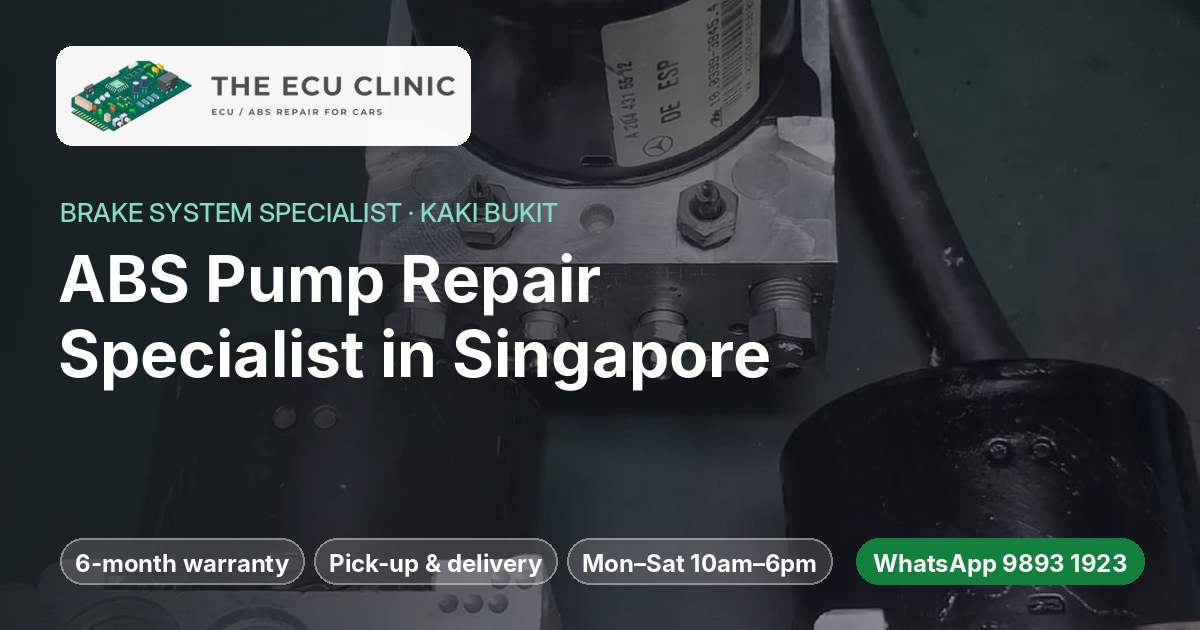
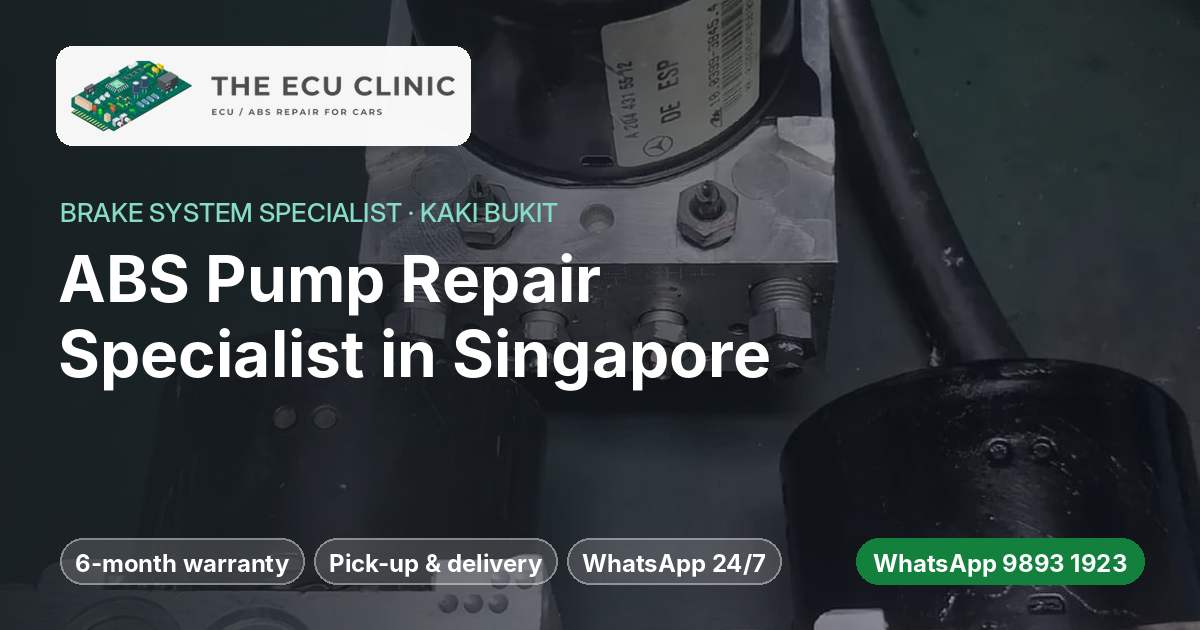
ECU Clinic: new opening hours, 24/7 WhatsApp, hybrid battery warranty
Claude-Session: https://claude.ai/code/session_01JL1gboM7tj1dXcdt9sxg5s

Changed region(s): [[0.4625, 0.8444, 0.7092, 0.9349]]

diff --git a/pageone-site/clients/ecu-clinic/site/index.html b/pageone-site/clients/ecu-clinic/site/index.html
@@ -34,14 +34,14 @@
 <link rel="preload" as="image" href="https://cdn.jsdelivr.net/gh/drdigital641/edwin-ai-monitor-android@55ce4a05db3fe9c131bf8425bc9e925459fcbf35/pageone-site/clients/ecu-clinic/site/img/mercedes-esp-pumps.webp" media="(max-width:899px)">
 <link rel="preload" as="image" href="https://cdn.jsdelivr.net/gh/drdigital641/edwin-ai-monitor-android@55ce4a05db3fe9c131bf8425bc9e925459fcbf35/pageone-site/clients/ecu-clinic/site/img/mercedes-esp-pumps-lg.webp" media="(min-width:900px)">
 <link rel="stylesheet" href="./ecu.css?v=2">
-<script type="application/ld+json">{"@context": "https://schema.org", "@graph": [{"@type": "AutoRepair", "@id": "https://pageonesingapore.com/preview/ecu-clinic/#business", "name": "The ECU Clinic", "description": "ABS pump and module repair, brake system fault diagnosis, Mercedes 7-speed and 9-speed TCU repair, Mercedes steering lock repair and hybrid battery replacement in Kaki Bukit, Singapore.", "url": "https://pageonesingapore.com/preview/ecu-clinic/", "telephone": "+6598931923", "logo": "https://cdn.jsdelivr.net/gh/drdigital641/edwin-ai-monitor-android@55ce4a05db3fe9c131bf8425bc9e925459fcbf35/pageone-site/clients/ecu-clinic/site/icon-512.png", "image": "https://cdn.jsdelivr.net/gh/drdigital641/edwin-ai-monitor-android@55ce4a05db3fe9c131bf8425bc9e925459fcbf35/pageone-site/clients/ecu-clinic/site/img/share/home.jpg", "sameAs": ["https://www.facebook.com/TheECUclinicSG"], "address": {"@type": "PostalAddress", "streetAddress": "8 Kaki Bukit Avenue 4, #06-43, Premier @ Kaki Bukit", "addressLocality": "Singapore", "postalCode": "415875", "addressCountry": "SG"}, "openingHoursSpecification": [{"@type": "OpeningHoursSpecification", "dayOfWeek": ["Monday", "Tuesday", "Wednesday", "Thursday", "Friday", "Saturday"], "opens": "10:00", "closes": "18:00"}], "areaServed": "Singapore", "hasOfferCatalog": {"@type": "OfferCatalog", "name": "Services", "itemListElement": [{"@type": "Offer", "itemOffered": {"@type": "Service", "name": "ABS Pump & Module Repair"}}, {"@type": "Offer", "itemOffered": {"@type": "Service", "name": "Mercedes 7-Speed & 9-Speed TCU Repair"}}, {"@type": "Offer", "itemOffered": {"@type": "Service", "name": "Mercedes Steering Lock (ELV) Repair"}}, {"@type": "Offer", "itemOffered": {"@type": "Service", "name": "Hybrid Battery Replacement"}}, {"@type": "Offer", "itemOffered": {"@type": "Service", "name": "BMW temperature programming"}}]}}]}</script><script type="application/ld+json">{"@context": "https://schema.org", "@type": "FAQPage", "mainEntity": [{"@type": "Question", "name": "What should I send when I WhatsApp you?", "acceptedAnswer": {"@type": "Answer", "text": "Your car model, chassis number and the fault code. A photo of the scan tool screen or the warning light on the dashboard also helps. WhatsApp 9893 1923."}}, {"@type": "Question", "name": "Can you repair my ABS pump or module?", "acceptedAnswer": {"@type": "Answer", "text": "Yes. We repair ABS, ESP and ESC modules and supply used and reconditioned ABS pumps for makes such as Toyota, Honda, Mercedes-Benz, Hyundai, Kia, Volkswagen, Audi, Nissan, Volvo and Chevrolet. For Toyota Voxy, Noah and Sienta we repair, replace or supply used and recon ABS pumps and modules, with plug and play available."}}, {"@type": "Question", "name": "My Mercedes says “Active Brake Assist functions limited”. Can you help?", "acceptedAnswer": {"@type": "Answer", "text": "Yes. WhatsApp us a photo of the dashboard and the fault code. We diagnose brake system warnings like this one and tell you what is causing it before any part is changed."}}, {"@type": "Question", "name": "Do you repair Mercedes 7-speed and 9-speed gearboxes?", "acceptedAnswer": {"@type": "Answer", "text": "We repair the transmission control unit (TCU) on Mercedes 7G-Tronic (722.9) and 9G-Tronic automatic gearboxes. Send us the car model, chassis number and fault code."}}, {"@type": "Question", "name": "Do you repair Mercedes steering locks?", "acceptedAnswer": {"@type": "Answer", "text": "Yes. We repair the electronic steering lock (ELV) on Mercedes-Benz cars. WhatsApp us your model and what the car is doing."}}, {"@type": "Question", "name": "What hybrid batteries do you fit?", "acceptedAnswer": {"@type": "Answer", "text": "Brand-new OEM hybrid batteries. WhatsApp us your car model and year and we will check availability and price."}}, {"@type": "Question", "name": "Which car brands do you work on?", "acceptedAnswer": {"@type": "Answer", "text": "Continental and Asian cars, including Audi, BMW, Chevrolet, Honda, Hyundai, Kia, Mercedes-Benz, Mini, Nissan, Skoda, Toyota, Volkswagen and Volvo. If your car isn’t listed, WhatsApp us the model and we will tell you."}}, {"@type": "Question", "name": "Is there a warranty?", "acceptedAnswer": {"@type": "Answer", "text": "Yes. Our repairs come with a 6-month warranty."}}, {"@type": "Question", "name": "Can you collect my car or part?", "acceptedAnswer": {"@type": "Answer", "text": "Yes. Pick-up and delivery service is available. WhatsApp us your location and what needs to be collected."}}, {"@type": "Question", "name": "Which BMWs can have temperature programming?", "acceptedAnswer": {"@type": "Answer", "text": "Most BMW models from 2010 to 2018, including the 1 to 8 Series, X1 to X6, M2 and Z4. See the full list on this page, or WhatsApp us your model to check."}}, {"@type": "Question", "name": "Where are you and when are you open?", "acceptedAnswer": {"@type": "Answer", "text": "We are at Premier @ Kaki Bukit, 8 Kaki Bukit Avenue 4, #06-43, Singapore 415875. Monday to Saturday, 10am to 6pm. Closed on Sundays and public holidays. After-hours appointments can be arranged."}}]}</script><script type="application/ld+json">{"@context": "https://schema.org", "@type": "WebPage", "@id": "https://pageonesingapore.com/preview/ecu-clinic/", "url": "https://pageonesingapore.com/preview/ecu-clinic/", "name": "ABS Pump Repair Singapore | The ECU Clinic, Kaki Bukit", "description": "ABS pump and module repair, brake fault diagnosis, Mercedes 7G/9G TCU and steering lock repair, new OEM hybrid batteries. Kaki Bukit. WhatsApp 9893 1923.", "about": {"@id": "https://pageonesingapore.com/preview/ecu-clinic/#business"}, "primaryImageOfPage": {"@type": "ImageObject", "url": "https://cdn.jsdelivr.net/gh/drdigital641/edwin-ai-monitor-android@55ce4a05db3fe9c131bf8425bc9e925459fcbf35/pageone-site/clients/ecu-clinic/site/img/share/home.jpg", "width": 1200, "height": 630}}</script>
+<script type="application/ld+json">{"@context": "https://schema.org", "@graph": [{"@type": "AutoRepair", "@id": "https://pageonesingapore.com/preview/ecu-clinic/#business", "name": "The ECU Clinic", "description": "ABS pump and module repair, brake system fault diagnosis, Mercedes 7-speed and 9-speed TCU repair, Mercedes steering lock repair and hybrid battery replacement in Kaki Bukit, Singapore.", "url": "https://pageonesingapore.com/preview/ecu-clinic/", "telephone": "+6598931923", "logo": "https://cdn.jsdelivr.net/gh/drdigital641/edwin-ai-monitor-android@55ce4a05db3fe9c131bf8425bc9e925459fcbf35/pageone-site/clients/ecu-clinic/site/icon-512.png", "image": "https://cdn.jsdelivr.net/gh/drdigital641/edwin-ai-monitor-android@55ce4a05db3fe9c131bf8425bc9e925459fcbf35/pageone-site/clients/ecu-clinic/site/img/share/home.jpg", "sameAs": ["https://www.facebook.com/TheECUclinicSG"], "address": {"@type": "PostalAddress", "streetAddress": "8 Kaki Bukit Avenue 4, #06-43, Premier @ Kaki Bukit", "addressLocality": "Singapore", "postalCode": "415875", "addressCountry": "SG"}, "openingHoursSpecification": [{"@type": "OpeningHoursSpecification", "dayOfWeek": ["Monday", "Tuesday", "Wednesday", "Thursday", "Friday"], "opens": "09:00", "closes": "19:00"}, {"@type": "OpeningHoursSpecification", "dayOfWeek": ["Saturday"], "opens": "09:00", "closes": "15:00"}], "areaServed": "Singapore", "hasOfferCatalog": {"@type": "OfferCatalog", "name": "Services", "itemListElement": [{"@type": "Offer", "itemOffered": {"@type": "Service", "name": "ABS Pump & Module Repair"}}, {"@type": "Offer", "itemOffered": {"@type": "Service", "name": "Mercedes 7-Speed & 9-Speed TCU Repair"}}, {"@type": "Offer", "itemOffered": {"@type": "Service", "name": "Mercedes Steering Lock (ELV) Repair"}}, {"@type": "Offer", "itemOffered": {"@type": "Service", "name": "Hybrid Battery Replacement"}}, {"@type": "Offer", "itemOffered": {"@type": "Service", "name": "BMW temperature programming"}}]}}]}</script><script type="application/ld+json">{"@context": "https://schema.org", "@type": "FAQPage", "mainEntity": [{"@type": "Question", "name": "What should I send when I WhatsApp you?", "acceptedAnswer": {"@type": "Answer", "text": "Your car model, chassis number and the fault code. A photo of the scan tool screen or the warning light on the dashboard also helps. WhatsApp 9893 1923."}}, {"@type": "Question", "name": "Can you repair my ABS pump or module?", "acceptedAnswer": {"@type": "Answer", "text": "Yes. We repair ABS, ESP and ESC modules and supply used and reconditioned ABS pumps for makes such as Toyota, Honda, Mercedes-Benz, Hyundai, Kia, Volkswagen, Audi, Nissan, Volvo and Chevrolet. For Toyota Voxy, Noah and Sienta we repair, replace or supply used and recon ABS pumps and modules, with plug and play available."}}, {"@type": "Question", "name": "My Mercedes says “Active Brake Assist functions limited”. Can you help?", "acceptedAnswer": {"@type": "Answer", "text": "Yes. WhatsApp us a photo of the dashboard and the fault code. We diagnose brake system warnings like this one and tell you what is causing it before any part is changed."}}, {"@type": "Question", "name": "Do you repair Mercedes 7-speed and 9-speed gearboxes?", "acceptedAnswer": {"@type": "Answer", "text": "We repair the transmission control unit (TCU) on Mercedes 7G-Tronic (722.9) and 9G-Tronic automatic gearboxes. Send us the car model, chassis number and fault code."}}, {"@type": "Question", "name": "Do you repair Mercedes steering locks?", "acceptedAnswer": {"@type": "Answer", "text": "Yes. We repair the electronic steering lock (ELV) on Mercedes-Benz cars. WhatsApp us your model and what the car is doing."}}, {"@type": "Question", "name": "What hybrid batteries do you fit?", "acceptedAnswer": {"@type": "Answer", "text": "Brand-new OEM hybrid batteries, with a warranty of 1 year or 100,000 km. WhatsApp us your car model and year and we will check availability and price."}}, {"@type": "Question", "name": "Which car brands do you work on?", "acceptedAnswer": {"@type": "Answer", "text": "Continental and Asian cars, including Audi, BMW, Chevrolet, Honda, Hyundai, Kia, Mercedes-Benz, Mini, Nissan, Skoda, Toyota, Volkswagen and Volvo. If your car isn’t listed, WhatsApp us the model and we will tell you."}}, {"@type": "Question", "name": "Is there a warranty?", "acceptedAnswer": {"@type": "Answer", "text": "Yes. Our repairs come with a 6-month warranty. Brand-new hybrid batteries come with a warranty of 1 year or 100,000 km."}}, {"@type": "Question", "name": "Can you collect my car or part?", "acceptedAnswer": {"@type": "Answer", "text": "Yes. Pick-up and delivery service is available. WhatsApp us your location and what needs to be collected."}}, {"@type": "Question", "name": "Which BMWs can have temperature programming?", "acceptedAnswer": {"@type": "Answer", "text": "Most BMW models from 2010 to 2018, including the 1 to 8 Series, X1 to X6, M2 and Z4. See the full list on this page, or WhatsApp us your model to check."}}, {"@type": "Question", "name": "Where are you and when are you open?", "acceptedAnswer": {"@type": "Answer", "text": "We are at Premier @ Kaki Bukit, 8 Kaki Bukit Avenue 4, #06-43, Singapore 415875. Monday to Friday, 9am to 7pm. Saturday, 9am to 3pm. Closed on Sundays and public holidays. WhatsApp enquiries are welcome 24/7, and after-hours appointments can be arranged."}}]}</script><script type="application/ld+json">{"@context": "https://schema.org", "@type": "WebPage", "@id": "https://pageonesingapore.com/preview/ecu-clinic/", "url": "https://pageonesingapore.com/preview/ecu-clinic/", "name": "ABS Pump Repair Singapore | The ECU Clinic, Kaki Bukit", "description": "ABS pump and module repair, brake fault diagnosis, Mercedes 7G/9G TCU and steering lock repair, new OEM hybrid batteries. Kaki Bukit. WhatsApp 9893 1923.", "about": {"@id": "https://pageonesingapore.com/preview/ecu-clinic/#business"}, "primaryImageOfPage": {"@type": "ImageObject", "url": "https://cdn.jsdelivr.net/gh/drdigital641/edwin-ai-monitor-android@55ce4a05db3fe9c131bf8425bc9e925459fcbf35/pageone-site/clients/ecu-clinic/site/img/share/home.jpg", "width": 1200, "height": 630}}</script>
 </head>
 <body>
 <a class="skip" href="#main">Skip to content</a>
 <svg width="0" height="0" style="position:absolute" aria-hidden="true"><symbol id="i-wa" viewBox="0 0 24 24"><path d="M17.5 14.4c-.3-.1-1.8-.9-2-1s-.5-.1-.7.1-.8 1-1 1.2-.4.2-.7.1a8.2 8.2 0 0 1-4-3.5c-.3-.5.3-.5.9-1.6.1-.2 0-.4 0-.5l-.9-2.2c-.2-.6-.5-.5-.7-.5h-.6a1.1 1.1 0 0 0-.8.4 3.4 3.4 0 0 0-1 2.5 5.9 5.9 0 0 0 1.2 3.1 13.5 13.5 0 0 0 5.2 4.6c1.9.8 2.7.9 3.6.7a3.1 3.1 0 0 0 2-1.4 2.5 2.5 0 0 0 .2-1.4c-.1-.2-.3-.3-.6-.4zM12 21.8a9.8 9.8 0 0 1-5-1.4l-.4-.2-3.7 1 1-3.6-.2-.4A9.8 9.8 0 1 1 12 21.8zm8.4-18.2A11.8 11.8 0 0 0 1.8 17.8L.1 24l6.3-1.7a11.8 11.8 0 0 0 5.6 1.4A11.8 11.8 0 0 0 20.4 3.6z"/></symbol><symbol id="i-phone" viewBox="0 0 24 24" fill="none" stroke="currentColor" stroke-width="2" stroke-linecap="round" stroke-linejoin="round"><path d="M22 16.9v3a2 2 0 0 1-2.2 2 19.8 19.8 0 0 1-8.6-3.1 19.5 19.5 0 0 1-6-6A19.8 19.8 0 0 1 2.1 4.2 2 2 0 0 1 4.1 2h3a2 2 0 0 1 2 1.7c.1 1 .4 1.9.7 2.8a2 2 0 0 1-.5 2.1L8 9.9a16 16 0 0 0 6 6l1.3-1.3a2 2 0 0 1 2.1-.4c.9.3 1.8.6 2.8.7a2 2 0 0 1 1.7 2z"/></symbol></svg>
 <div class="preview-strip">Preview by Page One Singapore. This is a draft of your new website.</div>
 <div class="topbar"><div class="wrap">
-<span>ABS &amp; brake system repair <span class="hide-sm">· Mon–Sat 10am–6pm · Sun &amp; PH closed</span></span>
+<span>ABS &amp; brake system repair <span class="hide-sm">· Mon–Fri 9am–7pm · Sat 9am–3pm · WhatsApp 24/7</span></span>
 <span><a href="https://wa.me/6598931923?text=Hi%20The%20ECU%20Clinic%2C%20I%20need%20help%20with%20my%20car.%20Car%20model%3A%20%0AChassis%20no.%3A%20%0AFault%20code%3A%20" target="_blank" rel="noopener">WhatsApp 9893 1923</a> <span class="hide-sm">· Premier @ Kaki Bukit</span></span>
 </div></div>
 <header class="site"><div class="wrap">
@@ -60,7 +60,7 @@
 <span class="eyebrow">Brake system specialist · Kaki Bukit, Singapore</span>
 <h1>ABS Pump Repair &amp; Brake Fault Diagnosis in Singapore</h1>
 <p class="lead">ABS or ESP light on? We find the fault and repair the pump or module. We also repair Mercedes 7-speed and 9-speed gearbox control units and steering locks, and fit brand-new OEM hybrid batteries.</p>
-<ul class="chips"><li>6-month warranty</li><li>Pick-up &amp; delivery</li><li>10+ years’ experience</li><li>Mon–Sat 10am–6pm</li></ul>
+<ul class="chips"><li>6-month warranty</li><li>Pick-up &amp; delivery</li><li>10+ years’ experience</li><li>WhatsApp enquiries 24/7</li></ul>
 <div class="btns"><a class="btn btn-wa" href="https://wa.me/6598931923?text=Hi%20The%20ECU%20Clinic%2C%20I%20need%20help%20with%20my%20car.%20Car%20model%3A%20%0AChassis%20no.%3A%20%0AFault%20code%3A%20" target="_blank" rel="noopener"><svg viewBox="0 0 24 24" fill="currentColor" aria-hidden="true"><use href="#i-wa"/></svg><span class="lg">WhatsApp 9893 1923</span><span class="sm">WhatsApp us</span></a><a class="btn btn-ghost" href="tel:+6598931923"><svg viewBox="0 0 24 24" aria-hidden="true"><use href="#i-phone"/></svg>Call Ching</a></div>
 </div>
 </section>
@@ -72,7 +72,7 @@
 
 <section class="alt" id="services"><div class="wrap">
 <div class="sec-head"><h2>Our services</h2><p>ABS and brake system repair, plus Mercedes gearbox and steering lock repair and hybrid batteries.</p></div>
-<div class="grid g2 svc"><div class="card img" id="abs"><img src="https://cdn.jsdelivr.net/gh/drdigital641/edwin-ai-monitor-android@55ce4a05db3fe9c131bf8425bc9e925459fcbf35/pageone-site/clients/ecu-clinic/site/img/abs-esc-units-bench.webp" width="640" height="480" alt="ABS and ESC units on the repair bench" loading="lazy" decoding="async"><div class="body"><h3>ABS Pump &amp; Module Repair</h3><p class="muted">ABS, ESP or ESC warning light? We repair the pump and module, or supply a used or reconditioned unit.</p><ul class="ticks"><li>ABS, ESP and ESC module repair</li><li>Used and recon ABS pumps</li><li>Mercedes-Benz ESP units</li><li>Hyundai and Kia ESC units</li><li>Toyota Voxy, Noah and Sienta: repair, replace, used or recon</li><li>Plug and play available</li></ul></div></div><div class="card img" id="tcu"><img src="https://cdn.jsdelivr.net/gh/drdigital641/edwin-ai-monitor-android@55ce4a05db3fe9c131bf8425bc9e925459fcbf35/pageone-site/clients/ecu-clinic/site/img/mercedes-7g-conductor-plate.webp" width="640" height="480" alt="Mercedes 7-speed gearbox conductor plate with new filter, gasket and gearbox oil" loading="lazy" decoding="async"><div class="body"><h3>Mercedes 7-Speed &amp; 9-Speed TCU Repair</h3><p class="muted">Gearbox warning, harsh shifts or stuck in one gear? We diagnose and repair the transmission control unit (TCU) on Mercedes 7-speed and 9-speed automatics.</p><ul class="ticks"><li>7G-Tronic (722.9) TCU and conductor plate</li><li>9G-Tronic TCU</li><li>Fault code reading and diagnosis</li><li>New filter, pan gasket and gearbox oil fitted on the same job</li></ul></div></div><div class="card img" id="elv"><img src="https://cdn.jsdelivr.net/gh/drdigital641/edwin-ai-monitor-android@55ce4a05db3fe9c131bf8425bc9e925459fcbf35/pageone-site/clients/ecu-clinic/site/img/mercedes-elv.webp" width="640" height="480" alt="Mercedes-Benz electronic steering lock on the bench" loading="lazy" decoding="async"><div class="body"><h3>Mercedes Steering Lock (ELV) Repair</h3><p class="muted">Key won’t turn, or the car won’t start because of the steering lock? We repair the electronic steering lock (ELV) on Mercedes-Benz.</p><ul class="ticks"><li>Mercedes-Benz ELV diagnosis</li><li>Steering lock repair</li><li>WhatsApp us your model and the symptoms</li></ul></div></div><div class="card img" id="hybrid"><img src="https://cdn.jsdelivr.net/gh/drdigital641/edwin-ai-monitor-android@55ce4a05db3fe9c131bf8425bc9e925459fcbf35/pageone-site/clients/ecu-clinic/site/img/hybrid-battery-pack.webp" width="640" height="480" alt="Brand-new hybrid battery pack ready to fit" loading="lazy" decoding="async"><div class="body"><h3>Hybrid Battery Replacement</h3><p class="muted">Hybrid battery warning or a weak battery? We replace it with a brand-new OEM hybrid battery.</p><ul class="ticks"><li>Brand-new OEM hybrid batteries</li><li>Removal and fitting</li><li>WhatsApp us your car model and year to check availability</li></ul></div></div></div>
+<div class="grid g2 svc"><div class="card img" id="abs"><img src="https://cdn.jsdelivr.net/gh/drdigital641/edwin-ai-monitor-android@55ce4a05db3fe9c131bf8425bc9e925459fcbf35/pageone-site/clients/ecu-clinic/site/img/abs-esc-units-bench.webp" width="640" height="480" alt="ABS and ESC units on the repair bench" loading="lazy" decoding="async"><div class="body"><h3>ABS Pump &amp; Module Repair</h3><p class="muted">ABS, ESP or ESC warning light? We repair the pump and module, or supply a used or reconditioned unit.</p><ul class="ticks"><li>ABS, ESP and ESC module repair</li><li>Used and recon ABS pumps</li><li>Mercedes-Benz ESP units</li><li>Hyundai and Kia ESC units</li><li>Toyota Voxy, Noah and Sienta: repair, replace, used or recon</li><li>Plug and play available</li></ul></div></div><div class="card img" id="tcu"><img src="https://cdn.jsdelivr.net/gh/drdigital641/edwin-ai-monitor-android@55ce4a05db3fe9c131bf8425bc9e925459fcbf35/pageone-site/clients/ecu-clinic/site/img/mercedes-7g-conductor-plate.webp" width="640" height="480" alt="Mercedes 7-speed gearbox conductor plate with new filter, gasket and gearbox oil" loading="lazy" decoding="async"><div class="body"><h3>Mercedes 7-Speed &amp; 9-Speed TCU Repair</h3><p class="muted">Gearbox warning, harsh shifts or stuck in one gear? We diagnose and repair the transmission control unit (TCU) on Mercedes 7-speed and 9-speed automatics.</p><ul class="ticks"><li>7G-Tronic (722.9) TCU and conductor plate</li><li>9G-Tronic TCU</li><li>Fault code reading and diagnosis</li><li>New filter, pan gasket and gearbox oil fitted on the same job</li></ul></div></div><div class="card img" id="elv"><img src="https://cdn.jsdelivr.net/gh/drdigital641/edwin-ai-monitor-android@55ce4a05db3fe9c131bf8425bc9e925459fcbf35/pageone-site/clients/ecu-clinic/site/img/mercedes-elv.webp" width="640" height="480" alt="Mercedes-Benz electronic steering lock on the bench" loading="lazy" decoding="async"><div class="body"><h3>Mercedes Steering Lock (ELV) Repair</h3><p class="muted">Key won’t turn, or the car won’t start because of the steering lock? We repair the electronic steering lock (ELV) on Mercedes-Benz.</p><ul class="ticks"><li>Mercedes-Benz ELV diagnosis</li><li>Steering lock repair</li><li>WhatsApp us your model and the symptoms</li></ul></div></div><div class="card img" id="hybrid"><img src="https://cdn.jsdelivr.net/gh/drdigital641/edwin-ai-monitor-android@55ce4a05db3fe9c131bf8425bc9e925459fcbf35/pageone-site/clients/ecu-clinic/site/img/hybrid-battery-pack.webp" width="640" height="480" alt="Brand-new hybrid battery pack ready to fit" loading="lazy" decoding="async"><div class="body"><h3>Hybrid Battery Replacement</h3><p class="muted">Hybrid battery warning or a weak battery? We replace it with a brand-new OEM hybrid battery.</p><ul class="ticks"><li>Brand-new OEM hybrid batteries</li><li>Warranty: 1 year or 100,000 km</li><li>Removal and fitting</li><li>WhatsApp us your car model and year to check availability</li></ul></div></div></div>
 <p style="margin-top:22px"><a class="btn btn-wa" href="https://wa.me/6598931923?text=Hi%20The%20ECU%20Clinic%2C%20I%20need%20help%20with%20my%20car.%20Car%20model%3A%20%0AChassis%20no.%3A%20%0AFault%20code%3A%20" target="_blank" rel="noopener"><svg viewBox="0 0 24 24" fill="currentColor" aria-hidden="true"><use href="#i-wa"/></svg>WhatsApp us your fault code</a></p>
 </div></section>
 
@@ -125,14 +125,14 @@
 <p>8 Kaki Bukit Avenue 4, #06-43<br>Singapore 415875</p>
 <div class="btns"><a class="btn btn-wa" href="https://wa.me/6598931923?text=Hi%20The%20ECU%20Clinic%2C%20I%20need%20help%20with%20my%20car.%20Car%20model%3A%20%0AChassis%20no.%3A%20%0AFault%20code%3A%20" target="_blank" rel="noopener"><svg viewBox="0 0 24 24" fill="currentColor" aria-hidden="true"><use href="#i-wa"/></svg>WhatsApp 9893 1923</a>
 <a class="btn btn-line" href="https://www.google.com/maps/search/?api=1&amp;query=Premier%20%40%20Kaki%20Bukit%2C%208%20Kaki%20Bukit%20Avenue%204%2C%20Singapore%20415875" target="_blank" rel="noopener">Directions</a></div></div>
-<div class="card"><h3>Opening hours</h3><dl class="hours"><dt>Mon – Sat</dt><dd>10:00am – 6:00pm</dd><dt>Sun &amp; PH</dt><dd>Closed</dd></dl>
-<p class="muted" style="margin-top:10px">After-hours appointments can be arranged. Pick-up and delivery available.</p></div>
+<div class="card"><h3>Opening hours</h3><dl class="hours"><dt>Mon – Fri</dt><dd>9:00am – 7:00pm</dd><dt>Sat</dt><dd>9:00am – 3:00pm</dd><dt>Sun &amp; PH</dt><dd>Closed</dd></dl>
+<p class="muted" style="margin-top:10px">WhatsApp enquiries are welcome 24/7. After-hours appointments can be arranged. Pick-up and delivery available.</p></div>
 </div>
 </div></section>
 
 <section id="faq"><div class="wrap" style="max-width:860px">
 <div class="sec-head"><h2>ABS &amp; brake repair FAQ</h2></div>
-<details><summary>What should I send when I WhatsApp you?</summary><div class="a">Your car model, chassis number and the fault code. A photo of the scan tool screen or the warning light on the dashboard also helps. WhatsApp <a href="https://wa.me/6598931923?text=Hi%20The%20ECU%20Clinic%2C%20I%20need%20help%20with%20my%20car.%20Car%20model%3A%20%0AChassis%20no.%3A%20%0AFault%20code%3A%20" target="_blank" rel="noopener">9893 1923</a>.</div></details><details><summary>Can you repair my ABS pump or module?</summary><div class="a">Yes. We repair ABS, ESP and ESC modules and supply used and reconditioned ABS pumps for makes such as Toyota, Honda, Mercedes-Benz, Hyundai, Kia, Volkswagen, Audi, Nissan, Volvo and Chevrolet. For Toyota Voxy, Noah and Sienta we repair, replace or supply used and recon ABS pumps and modules, with plug and play available.</div></details><details><summary>My Mercedes says “Active Brake Assist functions limited”. Can you help?</summary><div class="a">Yes. WhatsApp us a photo of the dashboard and the fault code. We diagnose brake system warnings like this one and tell you what is causing it before any part is changed.</div></details><details><summary>Do you repair Mercedes 7-speed and 9-speed gearboxes?</summary><div class="a">We repair the transmission control unit (TCU) on Mercedes 7G-Tronic (722.9) and 9G-Tronic automatic gearboxes. Send us the car model, chassis number and fault code.</div></details><details><summary>Do you repair Mercedes steering locks?</summary><div class="a">Yes. We repair the electronic steering lock (ELV) on Mercedes-Benz cars. WhatsApp us your model and what the car is doing.</div></details><details><summary>What hybrid batteries do you fit?</summary><div class="a">Brand-new OEM hybrid batteries. WhatsApp us your car model and year and we will check availability and price.</div></details><details><summary>Which car brands do you work on?</summary><div class="a">Continental and Asian cars, including Audi, BMW, Chevrolet, Honda, Hyundai, Kia, Mercedes-Benz, Mini, Nissan, Skoda, Toyota, Volkswagen and Volvo. If your car isn’t listed, WhatsApp us the model and we will tell you.</div></details><details><summary>Is there a warranty?</summary><div class="a">Yes. Our repairs come with a 6-month warranty.</div></details><details><summary>Can you collect my car or part?</summary><div class="a">Yes. Pick-up and delivery service is available. WhatsApp us your location and what needs to be collected.</div></details><details><summary>Which BMWs can have temperature programming?</summary><div class="a">Most BMW models from 2010 to 2018, including the 1 to 8 Series, X1 to X6, M2 and Z4. See the full list on this page, or WhatsApp us your model to check.</div></details><details><summary>Where are you and when are you open?</summary><div class="a">We are at Premier @ Kaki Bukit, 8 Kaki Bukit Avenue 4, #06-43, Singapore 415875. Monday to Saturday, 10am to 6pm. Closed on Sundays and public holidays. After-hours appointments can be arranged.</div></details>
+<details><summary>What should I send when I WhatsApp you?</summary><div class="a">Your car model, chassis number and the fault code. A photo of the scan tool screen or the warning light on the dashboard also helps. WhatsApp <a href="https://wa.me/6598931923?text=Hi%20The%20ECU%20Clinic%2C%20I%20need%20help%20with%20my%20car.%20Car%20model%3A%20%0AChassis%20no.%3A%20%0AFault%20code%3A%20" target="_blank" rel="noopener">9893 1923</a>.</div></details><details><summary>Can you repair my ABS pump or module?</summary><div class="a">Yes. We repair ABS, ESP and ESC modules and supply used and reconditioned ABS pumps for makes such as Toyota, Honda, Mercedes-Benz, Hyundai, Kia, Volkswagen, Audi, Nissan, Volvo and Chevrolet. For Toyota Voxy, Noah and Sienta we repair, replace or supply used and recon ABS pumps and modules, with plug and play available.</div></details><details><summary>My Mercedes says “Active Brake Assist functions limited”. Can you help?</summary><div class="a">Yes. WhatsApp us a photo of the dashboard and the fault code. We diagnose brake system warnings like this one and tell you what is causing it before any part is changed.</div></details><details><summary>Do you repair Mercedes 7-speed and 9-speed gearboxes?</summary><div class="a">We repair the transmission control unit (TCU) on Mercedes 7G-Tronic (722.9) and 9G-Tronic automatic gearboxes. Send us the car model, chassis number and fault code.</div></details><details><summary>Do you repair Mercedes steering locks?</summary><div class="a">Yes. We repair the electronic steering lock (ELV) on Mercedes-Benz cars. WhatsApp us your model and what the car is doing.</div></details><details><summary>What hybrid batteries do you fit?</summary><div class="a">Brand-new OEM hybrid batteries, with a warranty of 1 year or 100,000 km. WhatsApp us your car model and year and we will check availability and price.</div></details><details><summary>Which car brands do you work on?</summary><div class="a">Continental and Asian cars, including Audi, BMW, Chevrolet, Honda, Hyundai, Kia, Mercedes-Benz, Mini, Nissan, Skoda, Toyota, Volkswagen and Volvo. If your car isn’t listed, WhatsApp us the model and we will tell you.</div></details><details><summary>Is there a warranty?</summary><div class="a">Yes. Our repairs come with a 6-month warranty. Brand-new hybrid batteries come with a warranty of 1 year or 100,000 km.</div></details><details><summary>Can you collect my car or part?</summary><div class="a">Yes. Pick-up and delivery service is available. WhatsApp us your location and what needs to be collected.</div></details><details><summary>Which BMWs can have temperature programming?</summary><div class="a">Most BMW models from 2010 to 2018, including the 1 to 8 Series, X1 to X6, M2 and Z4. See the full list on this page, or WhatsApp us your model to check.</div></details><details><summary>Where are you and when are you open?</summary><div class="a">We are at Premier @ Kaki Bukit, 8 Kaki Bukit Avenue 4, #06-43, Singapore 415875. Monday to Friday, 9am to 7pm. Saturday, 9am to 3pm. Closed on Sundays and public holidays. WhatsApp enquiries are welcome 24/7, and after-hours appointments can be arranged.</div></details>
 </div></section>
 
 <section><div class="wrap"><div class="band"><div><h2>ABS or brake light on?</h2><p>WhatsApp us the fault code, chassis number and car model. We’ll tell you what we can do.</p></div><div class="btns"><a class="btn btn-wa" href="https://wa.me/6598931923?text=Hi%20The%20ECU%20Clinic%2C%20I%20need%20help%20with%20my%20car.%20Car%20model%3A%20%0AChassis%20no.%3A%20%0AFault%20code%3A%20" target="_blank" rel="noopener"><svg viewBox="0 0 24 24" fill="currentColor" aria-hidden="true"><use href="#i-wa"/></svg><span class="lg">WhatsApp 9893 1923</span><span class="sm">WhatsApp us</span></a><a class="btn btn-ghost" href="tel:+6598931923"><svg viewBox="0 0 24 24" aria-hidden="true"><use href="#i-phone"/></svg>Call Ching</a></div></div></div></section>
@@ -149,7 +149,7 @@
 <div>
 <h3>Workshop</h3>
 <p>Premier @ Kaki Bukit<br>8 Kaki Bukit Avenue 4, #06-43<br>Singapore 415875</p>
-<p>Mon–Sat 10am–6pm<br>Sun &amp; PH closed<br>After hours by appointment</p>
+<p>Mon–Fri 9am–7pm<br>Sat 9am–3pm<br>Sun &amp; PH closed<br>WhatsApp enquiries 24/7</p>
 </div>
 <div>
 <h3>Services</h3>

diff --git a/pageone-site/clients/ecu-clinic/build.py b/pageone-site/clients/ecu-clinic/build.py
@@ -53,7 +53,7 @@ BIZ = {
 }
 WA_TEXT = 'Hi The ECU Clinic, I need help with my car. Car model: \nChassis no.: \nFault code: '
 WARRANTY = '6-month warranty'
-HOURS_TXT = 'Monday to Saturday, 10am to 6pm. Closed on Sundays and public holidays. After-hours appointments can be arranged.'
+HOURS_TXT = 'Monday to Friday, 9am to 7pm. Saturday, 9am to 3pm. Closed on Sundays and public holidays. WhatsApp enquiries are welcome 24/7, and after-hours appointments can be arranged.'
 
 ICON = {
     'phone': '<svg viewBox="0 0 24 24" fill="none" stroke="currentColor" stroke-width="2" stroke-linecap="round" stroke-linejoin="round" aria-hidden="true"><path d="M22 16.9v3a2 2 0 0 1-2.2 2 19.8 19.8 0 0 1-8.6-3.1 19.5 19.5 0 0 1-6-6A19.8 19.8 0 0 1 2.1 4.2 2 2 0 0 1 4.1 2h3a2 2 0 0 1 2 1.7c.1 1 .4 1.9.7 2.8a2 2 0 0 1-.5 2.1L8 9.9a16 16 0 0 0 6 6l1.3-1.3a2 2 0 0 1 2.1-.4c.9.3 1.8.6 2.8.7a2 2 0 0 1 1.7 2z"/></svg>',
@@ -119,7 +119,7 @@ SERVICES = [
      ['Mercedes-Benz ELV diagnosis', 'Steering lock repair', 'WhatsApp us your model and the symptoms']),
     ('hybrid', 'Hybrid Battery Replacement', 'hybrid-battery-pack', 'Brand-new hybrid battery pack ready to fit',
      'Hybrid battery warning or a weak battery? We replace it with a brand-new OEM hybrid battery.',
-     ['Brand-new OEM hybrid batteries', 'Removal and fitting', 'WhatsApp us your car model and year to check availability']),
+     ['Brand-new OEM hybrid batteries', 'Warranty: 1 year or 100,000 km', 'Removal and fitting', 'WhatsApp us your car model and year to check availability']),
 ]
 
 WHY = [
@@ -179,11 +179,11 @@ FAQ = [
     ('Do you repair Mercedes steering locks?',
      'Yes. We repair the electronic steering lock (ELV) on Mercedes-Benz cars. WhatsApp us your model and what the car is doing.'),
     ('What hybrid batteries do you fit?',
-     'Brand-new OEM hybrid batteries. WhatsApp us your car model and year and we will check availability and price.'),
+     'Brand-new OEM hybrid batteries, with a warranty of 1 year or 100,000 km. WhatsApp us your car model and year and we will check availability and price.'),
     ('Which car brands do you work on?',
      'Continental and Asian cars, including Audi, BMW, Chevrolet, Honda, Hyundai, Kia, Mercedes-Benz, Mini, Nissan, Skoda, Toyota, Volkswagen and Volvo. If your car isn’t listed, WhatsApp us the model and we will tell you.'),
     ('Is there a warranty?',
-     'Yes. Our repairs come with a 6-month warranty.'),
+     'Yes. Our repairs come with a 6-month warranty. Brand-new hybrid batteries come with a warranty of 1 year or 100,000 km.'),
     ('Can you collect my car or part?',
      'Yes. Pick-up and delivery service is available. WhatsApp us your location and what needs to be collected.'),
     ('Which BMWs can have temperature programming?',
@@ -206,8 +206,10 @@ def schema():
          'address': {'@type': 'PostalAddress', 'streetAddress': f'{BIZ["street"]}, {BIZ["building"]}',
                      'addressLocality': 'Singapore', 'postalCode': BIZ['postal'], 'addressCountry': 'SG'},
          'openingHoursSpecification': [{'@type': 'OpeningHoursSpecification',
-                                        'dayOfWeek': ['Monday', 'Tuesday', 'Wednesday', 'Thursday', 'Friday', 'Saturday'],
-                                        'opens': '10:00', 'closes': '18:00'}],
+                                        'dayOfWeek': ['Monday', 'Tuesday', 'Wednesday', 'Thursday', 'Friday'],
+                                        'opens': '09:00', 'closes': '19:00'},
+                                       {'@type': 'OpeningHoursSpecification', 'dayOfWeek': ['Saturday'],
+                                        'opens': '09:00', 'closes': '15:00'}],
          'areaServed': 'Singapore',
          'hasOfferCatalog': {'@type': 'OfferCatalog', 'name': 'Services', 'itemListElement': [
              {'@type': 'Offer', 'itemOffered': {'@type': 'Service', 'name': html.unescape(t)}} for _, t, *_ in SERVICES]
@@ -275,7 +277,7 @@ def page(path, title, desc, body, ld=None, share=('module-circuit-board.jpg', No
 <a class="skip" href="#main">Skip to content</a>
 {SPRITE}
 {strip}<div class="topbar"><div class="wrap">
-<span>ABS &amp; brake system repair <span class="hide-sm">· Mon–Sat 10am–6pm · Sun &amp; PH closed</span></span>
+<span>ABS &amp; brake system repair <span class="hide-sm">· Mon–Fri 9am–7pm · Sat 9am–3pm · WhatsApp 24/7</span></span>
 <span><a href="{wa_link()}" target="_blank" rel="noopener">WhatsApp {BIZ["tel_disp"]}</a> <span class="hide-sm">· {BIZ["building"]}</span></span>
 </div></div>
 <header class="site"><div class="wrap">
@@ -300,7 +302,7 @@ def page(path, title, desc, body, ld=None, share=('module-circuit-board.jpg', No
 <div>
 <h3>Workshop</h3>
 <p>{BIZ["building"]}<br>{e(BIZ["street"])}<br>Singapore {BIZ["postal"]}</p>
-<p>Mon–Sat 10am–6pm<br>Sun &amp; PH closed<br>After hours by appointment</p>
+<p>Mon–Fri 9am–7pm<br>Sat 9am–3pm<br>Sun &amp; PH closed<br>WhatsApp enquiries 24/7</p>
 </div>
 <div>
 <h3>Services</h3>
@@ -348,7 +350,7 @@ def home():
 <span class="eyebrow">Brake system specialist · Kaki Bukit, Singapore</span>
 <h1>ABS Pump Repair &amp; Brake Fault Diagnosis in Singapore</h1>
 <p class="lead">ABS or ESP light on? We find the fault and repair the pump or module. We also repair Mercedes 7-speed and 9-speed gearbox control units and steering locks, and fit brand-new OEM hybrid batteries.</p>
-<ul class="chips"><li>6-month warranty</li><li>Pick-up &amp; delivery</li><li>10+ years’ experience</li><li>Mon–Sat 10am–6pm</li></ul>
+<ul class="chips"><li>6-month warranty</li><li>Pick-up &amp; delivery</li><li>10+ years’ experience</li><li>WhatsApp enquiries 24/7</li></ul>
 {cta_buttons(dark=True)}
 </div>
 </section>
@@ -413,8 +415,8 @@ def home():
 <p>{e(BIZ["street"])}<br>Singapore {BIZ["postal"]}</p>
 <div class="btns"><a class="btn btn-wa" href="{wa_link()}" target="_blank" rel="noopener">{ICON["wa"]}WhatsApp {BIZ["tel_disp"]}</a>
 <a class="btn btn-line" href="https://www.google.com/maps/search/?api=1&amp;query={quote(BIZ["map"])}" target="_blank" rel="noopener">Directions</a></div></div>
-<div class="card"><h3>Opening hours</h3><dl class="hours"><dt>Mon – Sat</dt><dd>10:00am – 6:00pm</dd><dt>Sun &amp; PH</dt><dd>Closed</dd></dl>
-<p class="muted" style="margin-top:10px">After-hours appointments can be arranged. Pick-up and delivery available.</p></div>
+<div class="card"><h3>Opening hours</h3><dl class="hours"><dt>Mon – Fri</dt><dd>9:00am – 7:00pm</dd><dt>Sat</dt><dd>9:00am – 3:00pm</dd><dt>Sun &amp; PH</dt><dd>Closed</dd></dl>
+<p class="muted" style="margin-top:10px">WhatsApp enquiries are welcome 24/7. After-hours appointments can be arranged. Pick-up and delivery available.</p></div>
 </div>
 </div></section>
 

diff --git a/pageone-site/clients/ecu-clinic/share.py b/pageone-site/clients/ecu-clinic/share.py
@@ -14,7 +14,7 @@ FONT_B = '/usr/share/fonts/opentype/inter/Inter-Bold.otf'
 FONT_M = '/usr/share/fonts/opentype/inter/InterDisplay-Medium.otf'
 CHARCOAL = (24, 30, 34)
 LOGO = os.path.join(SRC, 'logo-horizontal.png')
-CHIPS = ['6-month warranty', 'Pick-up & delivery', 'Mon–Sat 10am–6pm']
+CHIPS = ['6-month warranty', 'Pick-up & delivery', 'WhatsApp 24/7']
 WA = 'WhatsApp 9893 1923'
 
 

diff --git a/pageone-site/clients/ecu-clinic/source/content.md b/pageone-site/clients/ecu-clinic/source/content.md
@@ -9,8 +9,9 @@ Only what the client's own logo, flyers and photos say. Received from Edwin, 12 
 - Pick-up and delivery service available.
 - When asking for help, customers should send the fault code, chassis number and car model.
 - Address: Premier @ Kaki Bukit, 8 Kaki Bukit Avenue 4, #06-43, Singapore 415875 (from Edwin, 12 Oct 2026).
-- Hours: Monday to Saturday, 10am to 6pm. Closed on Sundays and public holidays.
-  After-hours appointments can be arranged.
+- Hours (updated by Edwin 13 Oct 2026): Mon-Fri 9am-7pm (Edwin wrote "Monday"; read as Mon-Fri), Sat 9am-3pm,
+  Sun & PH closed. WhatsApp enquiries welcome 24/7. After-hours appointments can be arranged.
+- Hybrid battery warranty: 1 year or 100,000 km (Edwin, 13 Oct 2026). BMW temperature programming: keep (Edwin OK).
 - Preferred contact: WhatsApp 9893 1923 for enquiries and appointments (make WhatsApp the main CTA).
 - Warranty: 6 months (confirmed by Edwin).
 - Experience: the team has more than a decade of experience.
@@ -72,5 +73,3 @@ page images.
 - Facebook page link and WeChat ID (Facebook/WeChat need a login; screenshots of the About
   section, posts and reviews would do).
 - Google Business profile link, reviews.
-- Warranty terms for hybrid battery replacement (site only states 6 months for repairs).
-- Whether to keep BMW temperature programming (it is ECU programming; kept for now).
